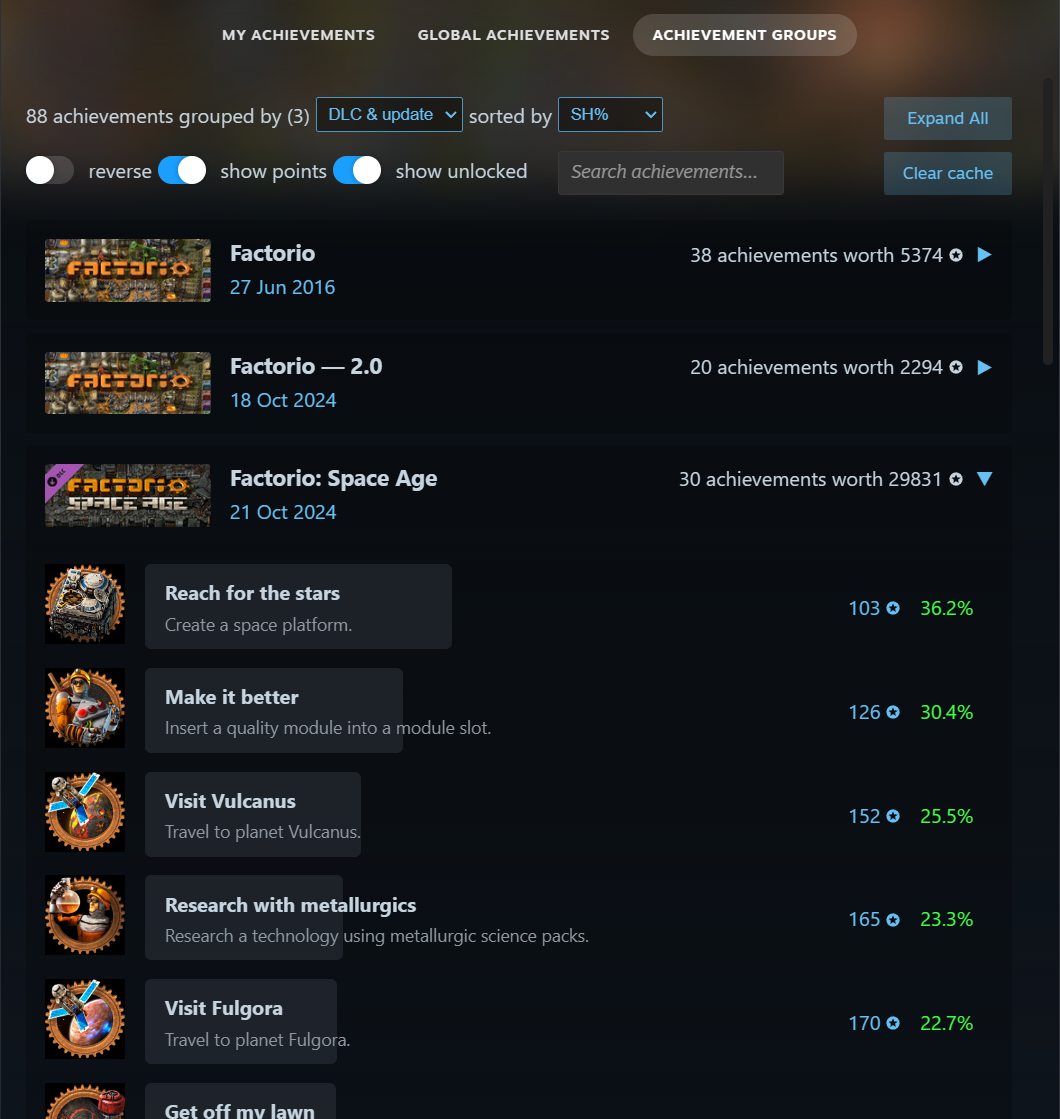
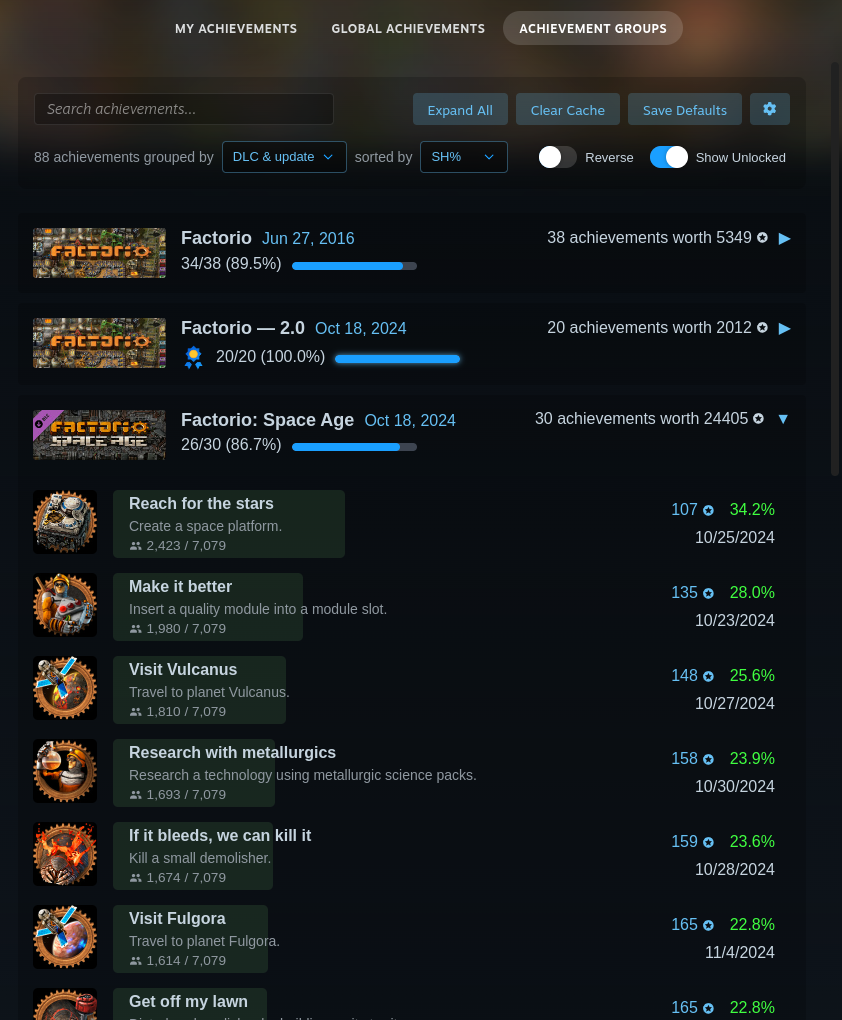
feat: updated readme, images and also added new images for preferences and Big Picture Mode

diff --git a/README.md b/README.md
@@ -1,59 +1,64 @@
 # Achievement groups plugin for Millennium
 
-This plugin ports the achievement groups and many other features of the [SteamHunters website](https://steamhunters.com/) right into your Steam client using Millennium.
+This plugin brings the achievement groups and many other features of the [SteamHunters website](https://steamhunters.com/) right into your Steam client using Millennium. With a beautiful interface and a lot of customization options, it's the perfect tool for achievement hunters.
 
 ## Features
-- Achievement groups based on updates and dlc from [SteamHunters.com](https://steamhunters.com/)
-- Achievement points
-- A better achievements screen (that also works in the steam overlay)
 
-|           **Main interface**             |                **Groups**                 |
-|:----------------------------------------:|:-----------------------------------------:|
-| ![Main interface](images/main-view.png)<img width="1000" />  |      ![Groups](images/grouping.png)<img width="1000" />       |
-|               **Sorting**                |       **Working in steam overlay**        |
-|      ![Sorting](images/sorting.png)      |   ![Steam overlay](images/overlay.png)    |
-|           **Reverse sorting**            |      **Great grouping for many dlc**      |
-| ![Reverse sorting](images/reverse-sorting.png) | ![Many dlc grouping](images/many-dlc-grouping.png) |
+- **Dynamic Grouping**: Automatically group achievements by DLC, Updates, and more using SteamHunters data.
+- **Achievement Points**: View point values for every achievement, giving you a better sense of rarity and difficulty.
+- **Enhanced Overlay**: A modernized achievements interface that also works seamlessly in the Steam Overlay and also Big Picture Mode while playing.
+- **Full controller support**: Navigate the interface in Big Picture Mode fully using your controller.
+- **Deep Customization**: Toggle points, tags, guides, and player counts to tailor the experience to your hunting style.
+- **Advanced Sorting**: Sort by SH%, rarity, or date, with support for reverse ordering.
 
+## Preview
+
+| **Achievement Groups View** | **Customization & Preferences** |
+|:---:|:---:|
+| ![Main interface](images/main-view.png) | ![Preferences](images/preferences.png) |
+| **Works in the steam overlay** | **Sorting & Filtering** |
+| ![Steam overlay](images/overlay.png) | ![Sorting](images/sorting.png) |
+| **Big Picture Mode** | **Great grouping for many dlc** |
+| ![Big Picture Mode](images/BPM.png) | ![Many dlc grouping](images/many-dlc-grouping.png) |
 
 ## Installation
-1. Ensure you have Millennium installed on your Steam client
-2. Download the [latest release](https://github.com/tddebart/SteamHunter-plugin/releases/latest) of this plugin from GitHub or from the [Steambrew](https://steambrew.app/plugins) website
-3. Place the plugin files in your Millennium plugins directory (should be a plugins folder in your Steam client directory)
-4. Restart your Steam client
-5. Enable the Achievement Groups plugin in the Millennium plugin menu
-6. Right click steam on your taskbar and Click "Exit Steam" to make sure the plugin is fully loaded
-7. Startup steam
 
+1. Ensure you have [Millennium](https://steambrew.app/) installed.
+2. Download the [latest release](https://github.com/tddebart/SteamHunter-plugin/releases/latest) of this plugin from GitHub or install it automatically from the [Steambrew](https://steambrew.app/plugin?id=13f2dcc363c8) website.
+3. Place the plugin folder into your Millennium plugins directory if you installed it manually.
+4. Restart Steam.
+5. Enable **Achievement Groups** in the Millennium settings menu.
+
+> [!TIP]
+> If the plugin doesn't appear immediately, fully exit Steam via the taskmanager and restart.
 
 ## Usage
 
-Once installed it should just work out of the box.
-<br>
-To see if the plugin is working click the View my achievements button on a game page and see that there is a new tab called `ACHIEVEMENT GROUPS`.
+Once installed, navigate to any game in your library and click **"View my achievements"**. You will see a new **ACHIEVEMENT GROUPS** tab next to the default Steam tabs.
 ![Main interface](images/main-view.png)
 
 ## Contributing
 
-Contributions are welcome! Please feel free to submit a Pull Request.
+Contributions are welcome! Whether it's a bug fix or a new feature, feel free to open a Pull Request.
 
-### Steps on how to set up the project
+### Development Setup
 
 > It is recommended to put the plugin repository in your Steam plugins folder or make some symbolic links to the
 > repository for easier development.
 
-1. Clone the repository using `git clone https://github.com/tddebart/SteamHunter-plugin.git`
-2. Run `bun install` or use your favorite package manager
-3. Now you can run `bun watch` or `bun dev` to build the plugin and watch for changes
+1. Clone the repo: `git clone https://github.com/tddebart/SteamHunter-plugin.git`
+2. Install dependencies: `bun install`
+3. Start development mode: `bun watch` (watches frontend and styles).
+4. Press `F5` in Steam to reload the UI changes.
 
-> Note: `bun dev` will only watch for changes in the webkit and frontend folder and the scss file, to reload the plugin just press `F5` in the steam client to reload
-> For changes to the backend, you will need to fully restart the Steam client.
+> [!NOTE]
+> Backend changes require a full Steam restart to take effect.
 
-## Special thanks
+## Special Thanks
 
-- [SteamHunters website and their API](https://steamhunters.com/)
-- [Millennium](https://github.com/shdwmtr/millennium)
+- **[SteamHunters](https://steamhunters.com/)**: For their incredible API and community data.
+- **[Millennium](https://github.com/SteamClientHomebrew/Millennium)**: The framework making this all possible.
 
 ## License
 
-This project is licensed under the MIT License - see the [LICENSE](LICENSE) file for details.
+MIT License. See [LICENSE](LICENSE) for details.
